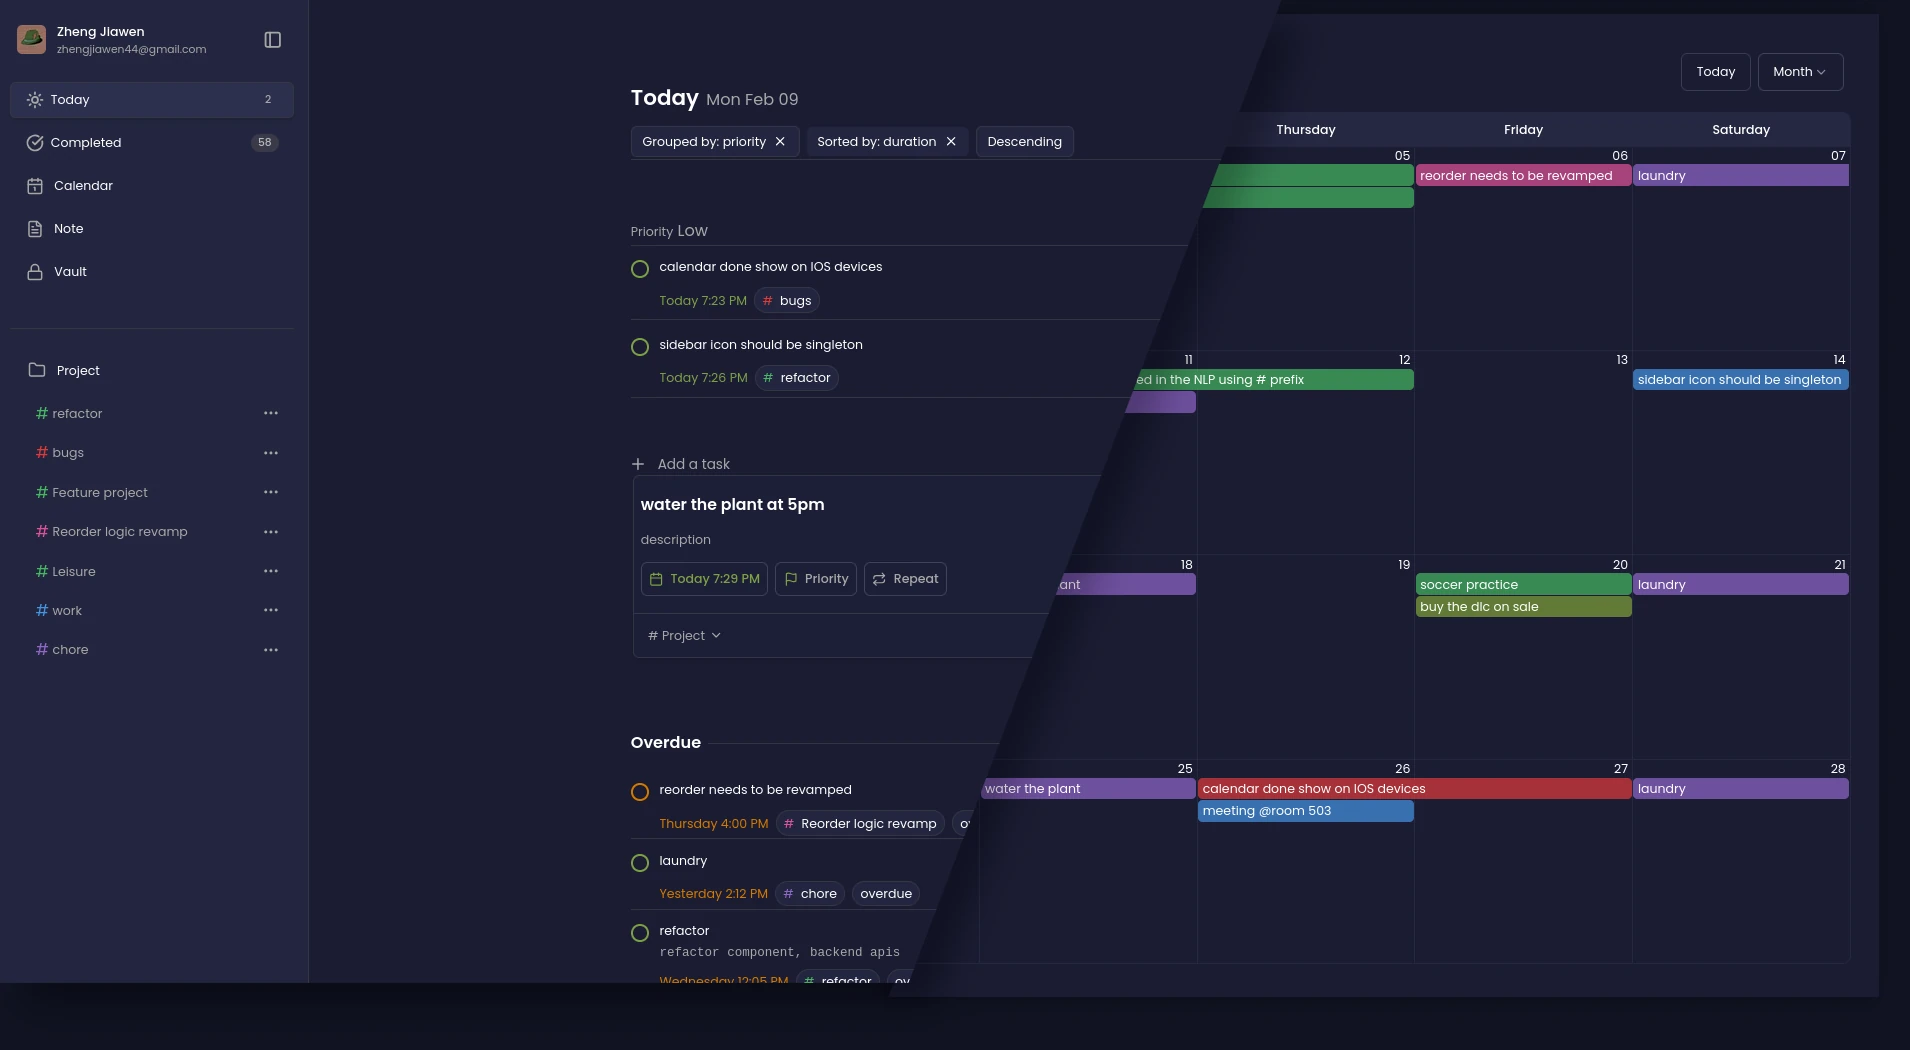
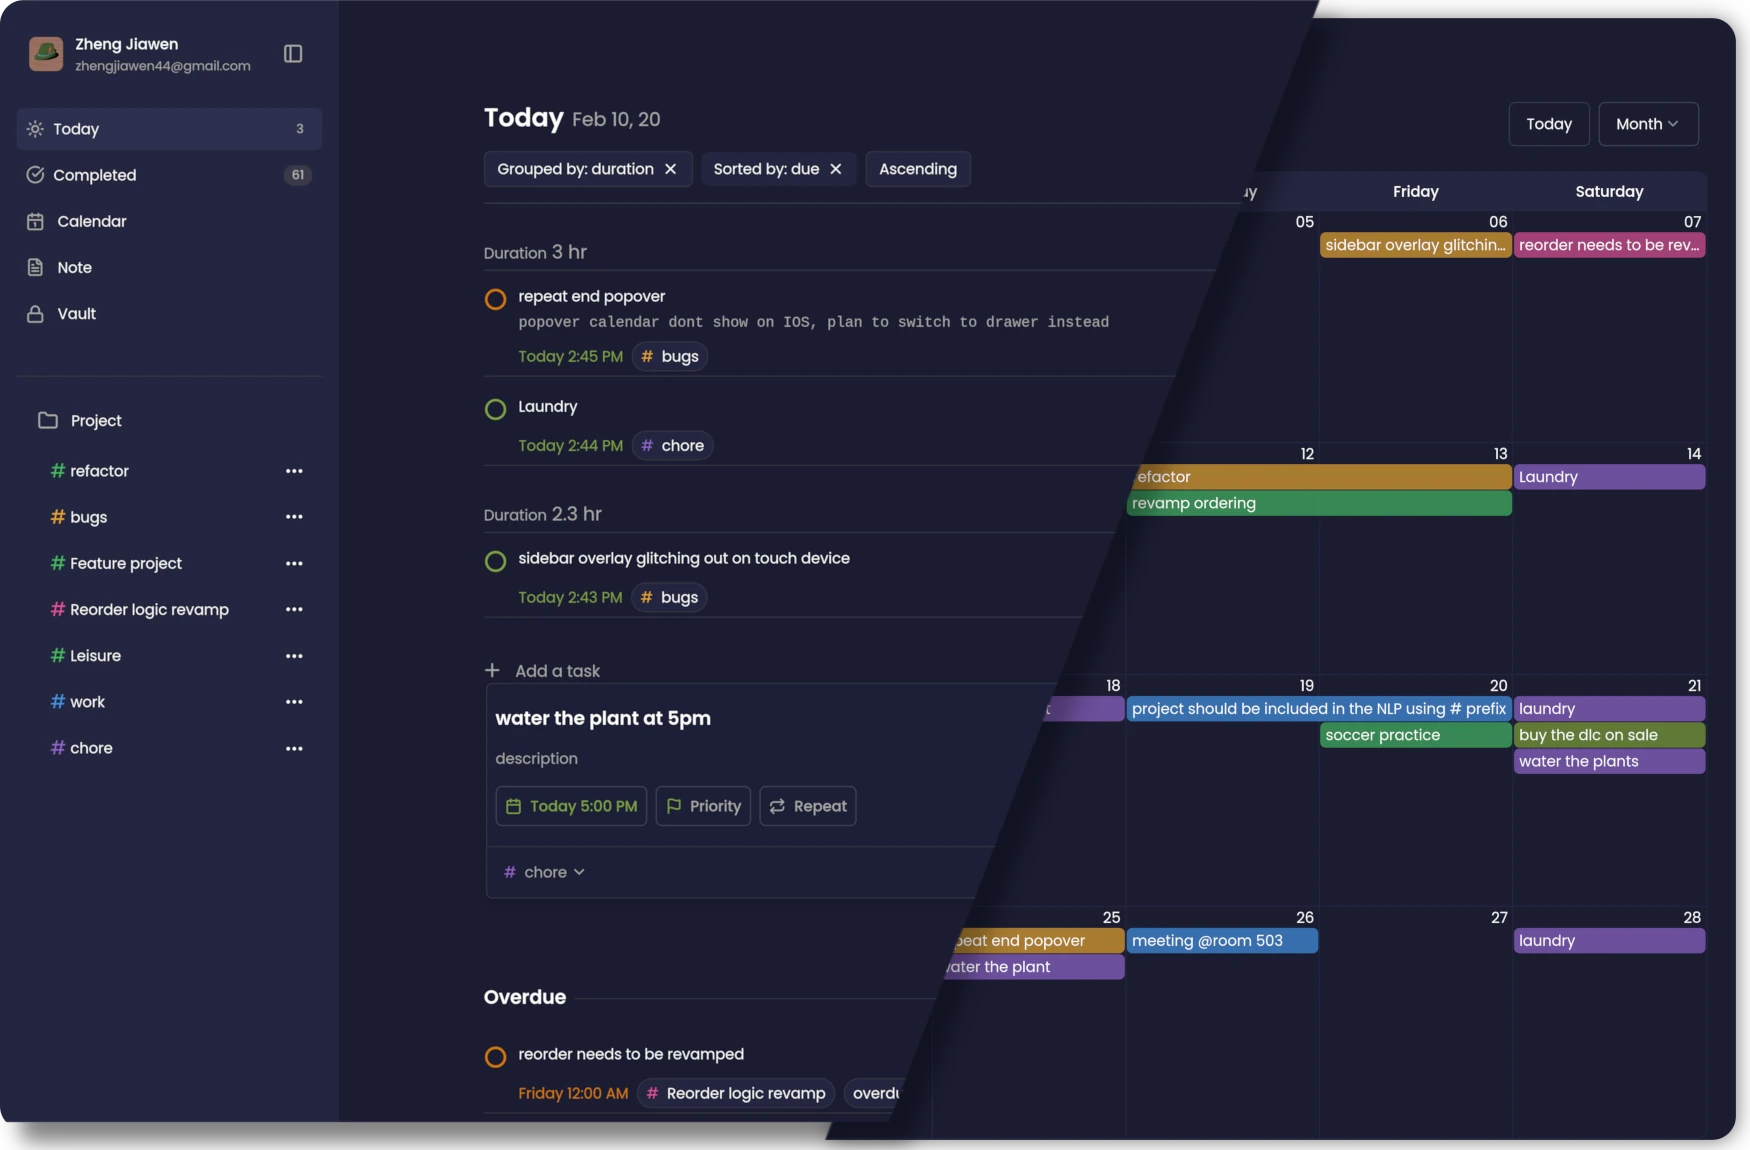
(ui) new landing page hero image

diff --git a/components/landing/LandingPage.tsx b/components/landing/LandingPage.tsx
@@ -149,9 +149,8 @@ const LandingPage = () => {
                 <Image
                   className=" rounded-lg m-auto mb-6 w-full h-auto"
                   src={"/hero.webp"}
-                  width={1899}
-                  height={982}
-                  quality={100}
+                  width={1750}
+                  height={1150}
                   alt="hero Image"
                   loading="eager"
                 />
@@ -164,9 +163,8 @@ const LandingPage = () => {
             <Image
               className=" rounded-lg w-full h-auto"
               src={"/hero.webp"}
-              width={1899}
-              height={982}
-              quality={100}
+              width={1750}
+              height={1150}
               alt="example of weekly recurring todo"
               loading="lazy"
               sizes="(max-width: 1024px) 100vw, 50vw"
